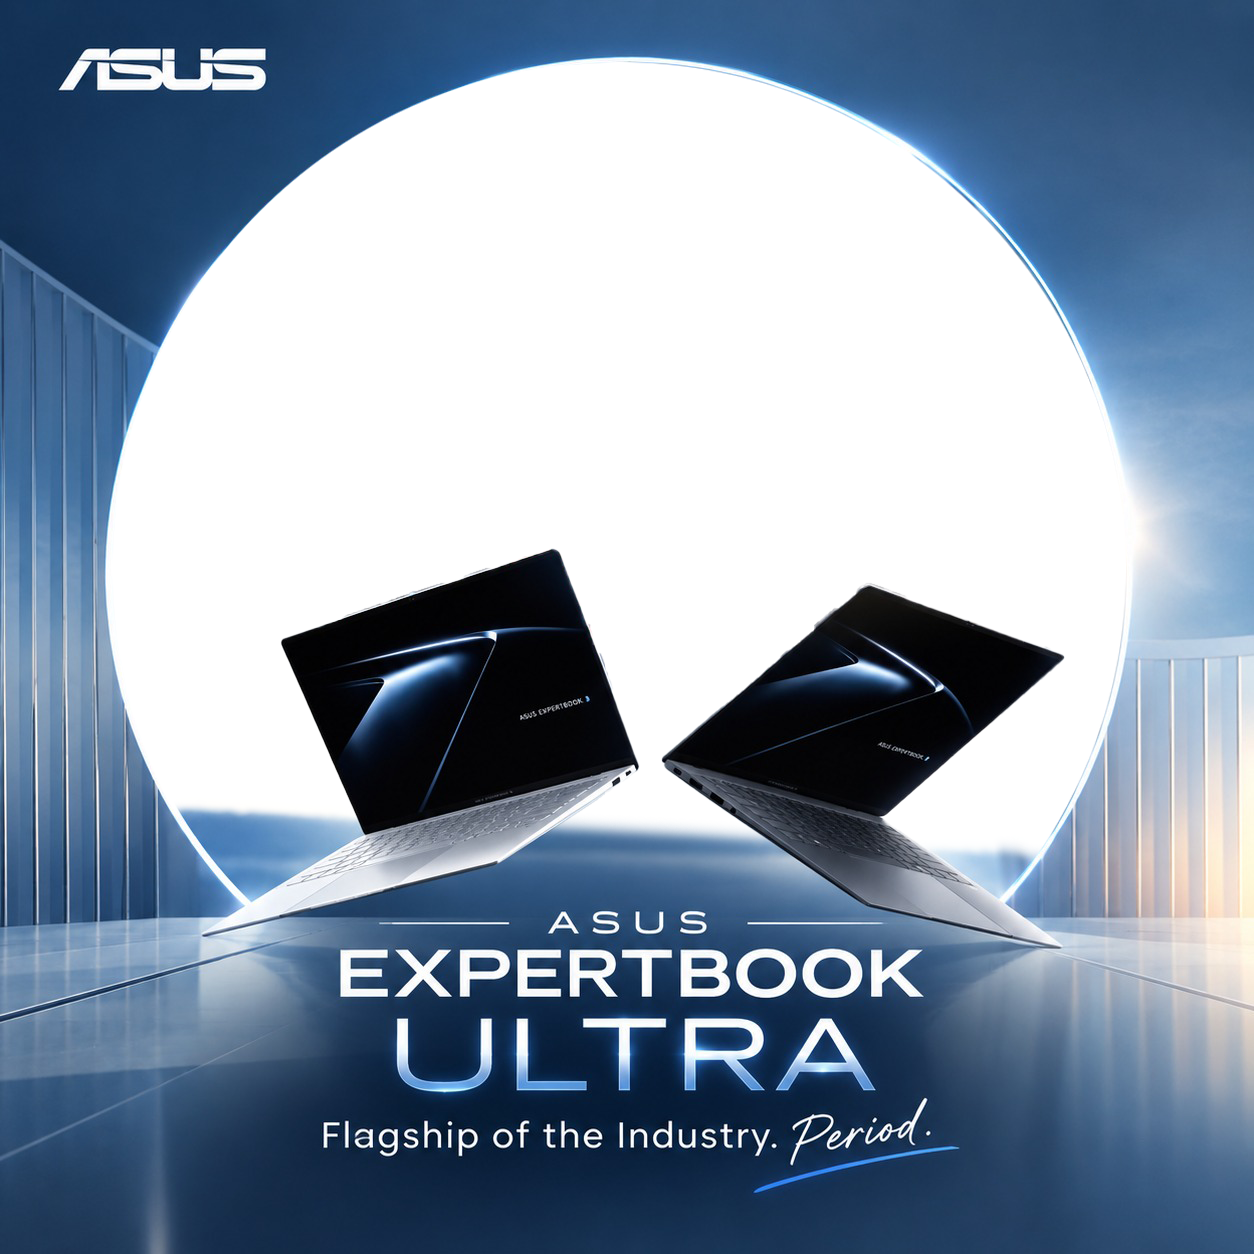
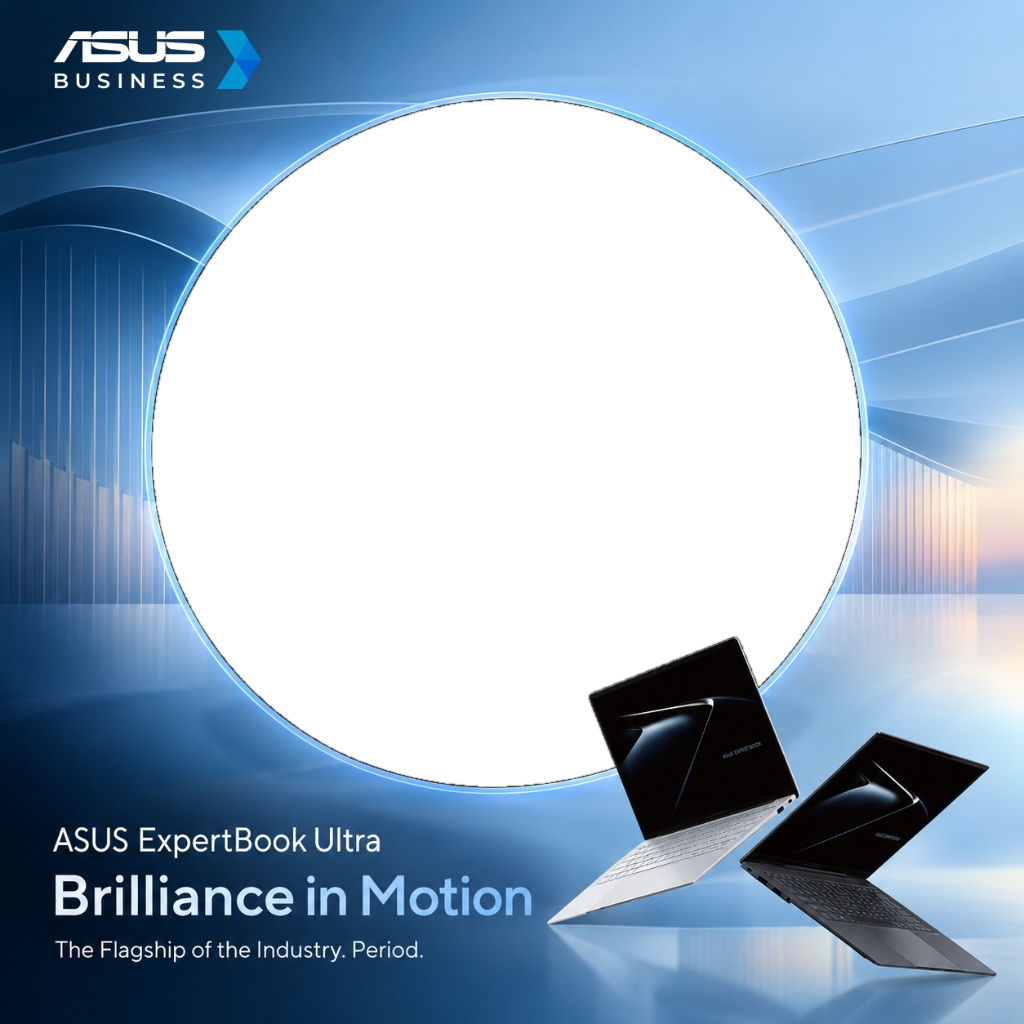
feat: replace frame with uploaded ASUS ExpertBook Ultra artwork and update geometry constants

diff --git a/src/components/FrameEditor.tsx b/src/components/FrameEditor.tsx
@@ -7,7 +7,7 @@ import { Header } from './Header';
 import { ToastContainer } from './Toast';
 import { UploadInput } from './UploadZone';
 import { exportCompositeImage } from '@/lib/canvasRenderer';
-import { DEFAULT_TRANSFORM, FRAME_ASSET_PATH, TRANSFORM_LIMITS } from '@/lib/constants';
+import { DEFAULT_TRANSFORM, FRAME_ASSET_PATH, FRAME_GEOMETRY, TRANSFORM_LIMITS } from '@/lib/constants';
 import { loadImageFromUrl, loadUserImage } from '@/lib/imageUtils';
 import { OutputFormat, ToastMessage, TransformState, UserImageInfo } from '@/types';
 
@@ -123,7 +123,7 @@ export const FrameEditor: React.FC = () => {
         format: outputFormat,
         jpegQuality: jpegQuality / 100,
       });
-      addToast('success', `Export complete! Downloaded 1254×1254 ${outputFormat.toUpperCase()}.`);
+      addToast('success', `Export complete! Downloaded ${FRAME_GEOMETRY.canvasWidth}×${FRAME_GEOMETRY.canvasHeight} ${outputFormat.toUpperCase()}.`);
     } catch (err: unknown) {
       console.error('Export error:', err);
       addToast('error', 'Something went wrong during export. Please try again.');
@@ -217,7 +217,7 @@ export const FrameEditor: React.FC = () => {
             </a>
           </p>
           <p className="text-[11px] text-zinc-500 font-mono">
-            1254 × 1254 Native Canvas • Zero Cloud Uploads • 100% Client-Side
+            {FRAME_GEOMETRY.canvasWidth} × {FRAME_GEOMETRY.canvasHeight} Native Canvas • Zero Cloud Uploads • 100% Client-Side
           </p>
         </div>
       </footer>

diff --git a/src/components/ControlPanel.tsx b/src/components/ControlPanel.tsx
@@ -10,7 +10,7 @@ import {
   Sparkles,
 } from 'lucide-react';
 import { SliderRow } from './Sliders';
-import { TRANSFORM_LIMITS } from '@/lib/constants';
+import { FRAME_GEOMETRY, TRANSFORM_LIMITS } from '@/lib/constants';
 import { formatBytes } from '@/lib/imageUtils';
 import { OutputFormat, TransformState, UserImageInfo } from '@/types';
 
@@ -196,7 +196,7 @@ export const ControlPanel: React.FC<ControlPanelProps> = ({
           <span className="text-[11px] font-mono uppercase tracking-wider text-zinc-400">
             03 / Export Format
           </span>
-          <span className="text-[11px] font-mono text-zinc-500">1254 × 1254 px</span>
+          <span className="text-[11px] font-mono text-zinc-500">{FRAME_GEOMETRY.canvasWidth} × {FRAME_GEOMETRY.canvasHeight} px</span>
         </div>
 
         {/* Format Selector Radio Cards */}
@@ -285,7 +285,7 @@ export const ControlPanel: React.FC<ControlPanelProps> = ({
           {isExporting ? (
             <div className="flex items-center space-x-2">
               <div className="w-4 h-4 border-2 border-zinc-950 border-t-transparent rounded-full animate-spin" />
-              <span>Rendering 1254px Export...</span>
+              <span>Rendering {FRAME_GEOMETRY.canvasWidth}px Export...</span>
             </div>
           ) : (
             <div className="flex items-center space-x-2">

diff --git a/src/lib/canvasRenderer.ts b/src/lib/canvasRenderer.ts
@@ -11,7 +11,7 @@ export interface RenderCanvasOptions {
 
 /**
  * High-fidelity rendering engine for both live preview and native export.
- * Renders into a 1254 x 1254 context.
+ * Renders into native canvas geometry (FRAME_GEOMETRY).
  */
 export function renderCompositedFrame({
   canvas,
@@ -25,7 +25,7 @@ export function renderCompositedFrame({
   const width = FRAME_GEOMETRY.canvasWidth;
   const height = FRAME_GEOMETRY.canvasHeight;
 
-  // Always ensure canvas internal size is exactly 1254 x 1254
+  // Always ensure canvas internal size matches native frame dimensions
   if (canvas.width !== width || canvas.height !== height) {
     canvas.width = width;
     canvas.height = height;
@@ -85,14 +85,14 @@ export function renderCompositedFrame({
   }
 
   // 2. LAYER TOP: ASUS Frame Overlay
-  // Frame.png is rendered strictly at (0, 0, 1254, 1254)
+  // Frame.png is rendered strictly at (0, 0, width, height)
   if (frameImage) {
     ctx.drawImage(frameImage, 0, 0, width, height);
   }
 }
 
 /**
- * Creates an offscreen 1254 x 1254 canvas, renders the final composition,
+ * Creates an offscreen native canvas, renders the final composition,
  * and triggers a native high-quality download.
  */
 export async function exportCompositeImage({

diff --git a/src/lib/constants.ts b/src/lib/constants.ts
@@ -2,19 +2,19 @@ import { FrameGeometry, TransformState } from '@/types';
 
 /**
  * Exact geometric constants determined from pixel-level programmatic inspection of Frame.png:
- * - Canvas dimensions: 1254 x 1254
+ * - Canvas dimensions: 1024 x 1024
  * - Central circular transparent window:
- *   - Center: (618.5, 568.5)
- *   - Radius: 507px (diameter: 1014px)
- *   - Transparent bounds: x in [112, 1125], y in [62, 855] (with bottom covered by laptop artwork)
+ *   - Center: (506, 445)
+ *   - Radius: 351px (diameter: 702px)
+ *   - Transparent bounds: x in [152, 860], y in [99, 786] (with bottom-right covered by laptop artwork)
  */
 export const FRAME_GEOMETRY: FrameGeometry = {
-  canvasWidth: 1254,
-  canvasHeight: 1254,
-  centerX: 618.5,
-  centerY: 568.5,
-  radius: 507,
-  diameter: 1014,
+  canvasWidth: 1024,
+  canvasHeight: 1024,
+  centerX: 506,
+  centerY: 445,
+  radius: 351,
+  diameter: 702,
 };
 
 export const DEFAULT_TRANSFORM: TransformState = {

diff --git a/src/components/CanvasPreview.tsx b/src/components/CanvasPreview.tsx
@@ -234,7 +234,7 @@ export const CanvasPreview: React.FC<CanvasPreviewProps> = ({
 
       {/* Resolution & Ratio Subtitle */}
       <div className="flex items-center justify-between w-full px-2 mt-3 text-[11px] text-zinc-400">
-        <span>Output Canvas: 1254 × 1254 px (1:1)</span>
+        <span>Output Canvas: {FRAME_GEOMETRY.canvasWidth} × {FRAME_GEOMETRY.canvasHeight} px (1:1)</span>
         <span className="text-zinc-400">ASUS Pixel-Perfect Overlay</span>
       </div>
     </div>

diff --git a/README.md b/README.md
@@ -1,6 +1,6 @@
 # ASUS ExpertBook Ultra Frame Generator
 
-A high-performance, client-side web application built with **Next.js**, **React**, **TypeScript**, and **Tailwind CSS**. It allows users to upload a personal photo, position, zoom, and rotate it behind the official **ASUS ExpertBook Ultra** promotional frame artwork, and download a pixel-perfect $1254 \times 1254\text{ px}$ composition in PNG or JPEG format.
+A high-performance, client-side web application built with **Next.js**, **React**, **TypeScript**, and **Tailwind CSS**. It allows users to upload a personal photo, position, zoom, and rotate it behind the official **ASUS ExpertBook Ultra** promotional frame artwork, and download a pixel-perfect $1024 \times 1024\text{ px}$ composition in PNG or JPEG format.
 
 ---
 
@@ -8,7 +8,7 @@ A high-performance, client-side web application built with **Next.js**, **React*
 
 The **ASUS ExpertBook Ultra Frame Generator** is designed with a premium, dark aesthetic inspired by ASUS global product launch branding. It features:
 - **Zero Server Uploads (100% Privacy)**: All image rendering, transformation, and compositing occur directly within browser memory using HTML5 Canvas 2D APIs.
-- **Exact Native Resolution**: Previews responsively across mobile, tablet, and desktop viewports, but always generates an uncompromised $1254 \times 1254\text{ px}$ master file upon download.
+- **Exact Native Resolution**: Previews responsively across mobile, tablet, and desktop viewports, but always generates an uncompromised $1024 \times 1024\text{ px}$ master file upon download.
 - **Direct Canvas Manipulation**: Click/drag to pan, mouse scroll to zoom, single-touch dragging, and two-finger pinch-to-zoom on touch devices.
 - **Precision Slider Controls**: Granular controls for Zoom ($0.3\times - 3.5\times$), Horizontal Pan ($\pm 700\text{px}$), Vertical Pan ($\pm 700\text{px}$), and Rotation ($-180^\circ$ to $+180^\circ$) with dedicated reset buttons.
 - **Multi-Format Export**: One-click download as lossless **PNG** or compressed **JPEG** with custom quality settings (default 95%).
@@ -58,7 +58,7 @@ public/Frame.png
 ```
 
 To update or replace the frame:
-1. Ensure your replacement image is a transparent PNG of exactly **$1254 \times 1254\text{ px}$**.
+1. Ensure your replacement image is a transparent PNG of exactly **$1024 \times 1024\text{ px}$**.
 2. Save the file with the exact name `Frame.png` inside the `public/` directory:
    ```
    public/Frame.png
@@ -67,12 +67,12 @@ To update or replace the frame:
    [`src/lib/constants.ts`](src/lib/constants.ts):
    ```typescript
    export const FRAME_GEOMETRY = {
-     canvasWidth: 1254,
-     canvasHeight: 1254,
-     centerX: 618.5, // Center X coordinate of the aperture
-     centerY: 568.5, // Center Y coordinate of the aperture
-     radius: 507,    // Radius of circular mask
-     diameter: 1014, // Diameter for cover fitting
+     canvasWidth: 1024,
+     canvasHeight: 1024,
+     centerX: 506, // Center X coordinate of the aperture
+     centerY: 445, // Center Y coordinate of the aperture
+     radius: 351,  // Radius of circular mask
+     diameter: 702,// Diameter for cover fitting
    };
    ```
 
@@ -84,13 +84,13 @@ The compositing engine lives in [`src/lib/canvasRenderer.ts`](src/lib/canvasRend
 
 ```
 +-------------------------------------------------------------+
-|                     1254 x 1254 Canvas                      |
+|                     1024 x 1024 Canvas                      |
 |                                                             |
-|  1. ctx.clearRect(0, 0, 1254, 1254)                         |
+|  1. ctx.clearRect(0, 0, 1024, 1024)                         |
 |                                                             |
 |  2. BASE LAYER (User Photo):                                |
 |     - ctx.save()                                            |
-|     - ctx.arc(618.5, 568.5, 507, 0, 2*PI)                   |
+|     - ctx.arc(506, 445, 351, 0, 2*PI)                       |
 |     - ctx.clip()                                            |
 |     - ctx.translate(centerX + panX, centerY + panY)         |
 |     - ctx.rotate(rotation)                                  |
@@ -99,15 +99,15 @@ The compositing engine lives in [`src/lib/canvasRenderer.ts`](src/lib/canvasRend
 |     - ctx.restore()                                         |
 |                                                             |
 |  3. TOP LAYER (ASUS Frame):                                 |
-|     - ctx.drawImage(frameImage, 0, 0, 1254, 1254)           |
+|     - ctx.drawImage(frameImage, 0, 0, 1024, 1024)           |
 |     - Foreground laptop artwork & typography stay on top    |
 +-------------------------------------------------------------+
 ```
 
 ### Key Mathematical & Geometric Guarantees:
-1. **Circular Aperture Bounds**: The transparent hole spans $x \in [112, 1125]$ and $y \in [62, 855]$ with center $(618.5, 568.5)$ and radius $507\text{ px}$.
+1. **Circular Aperture Bounds**: The transparent hole spans $x \in [152, 860]$ and $y \in [99, 786]$ with center $(506, 445)$ and radius $351\text{ px}$.
 2. **Strict Clipping**: Clipping prevents the user's photo from ever bleeding into outer borders, top logos, or surrounding architectural artwork.
-3. **Foreground Protection**: Because `Frame.png` is rendered on top at $(0, 0)$ with native $1254 \times 1254$ dimensions, the opaque laptop artwork at the bottom of the circle covers the lower portion of the user photo with $100\%$ pixel-perfect fidelity.
+3. **Foreground Protection**: Because `Frame.png` is rendered on top at $(0, 0)$ with native $1024 \times 1024$ dimensions, the opaque laptop artwork at the bottom of the circle covers the lower portion of the user photo with $100\%$ pixel-perfect fidelity.
 
 ---
 
